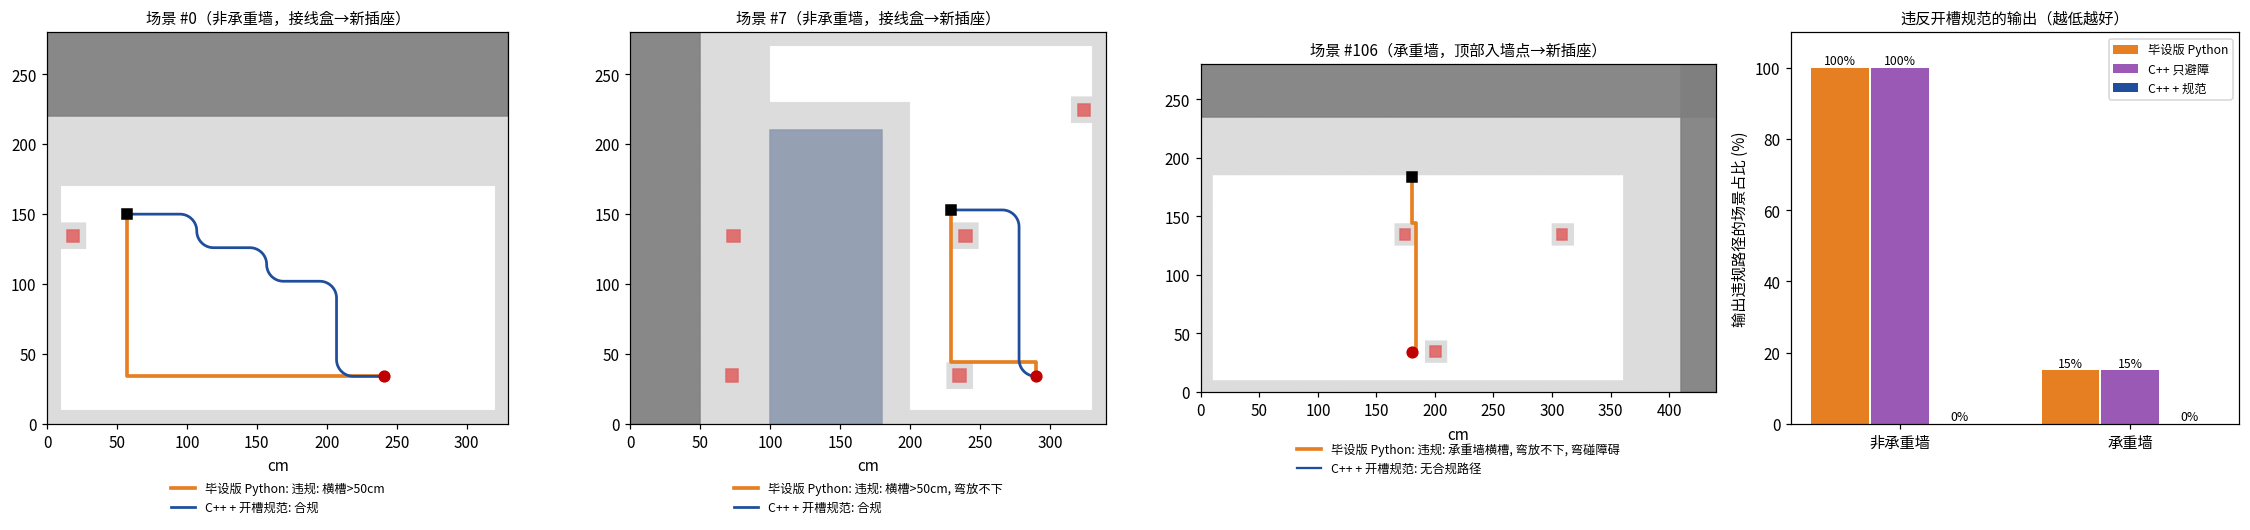
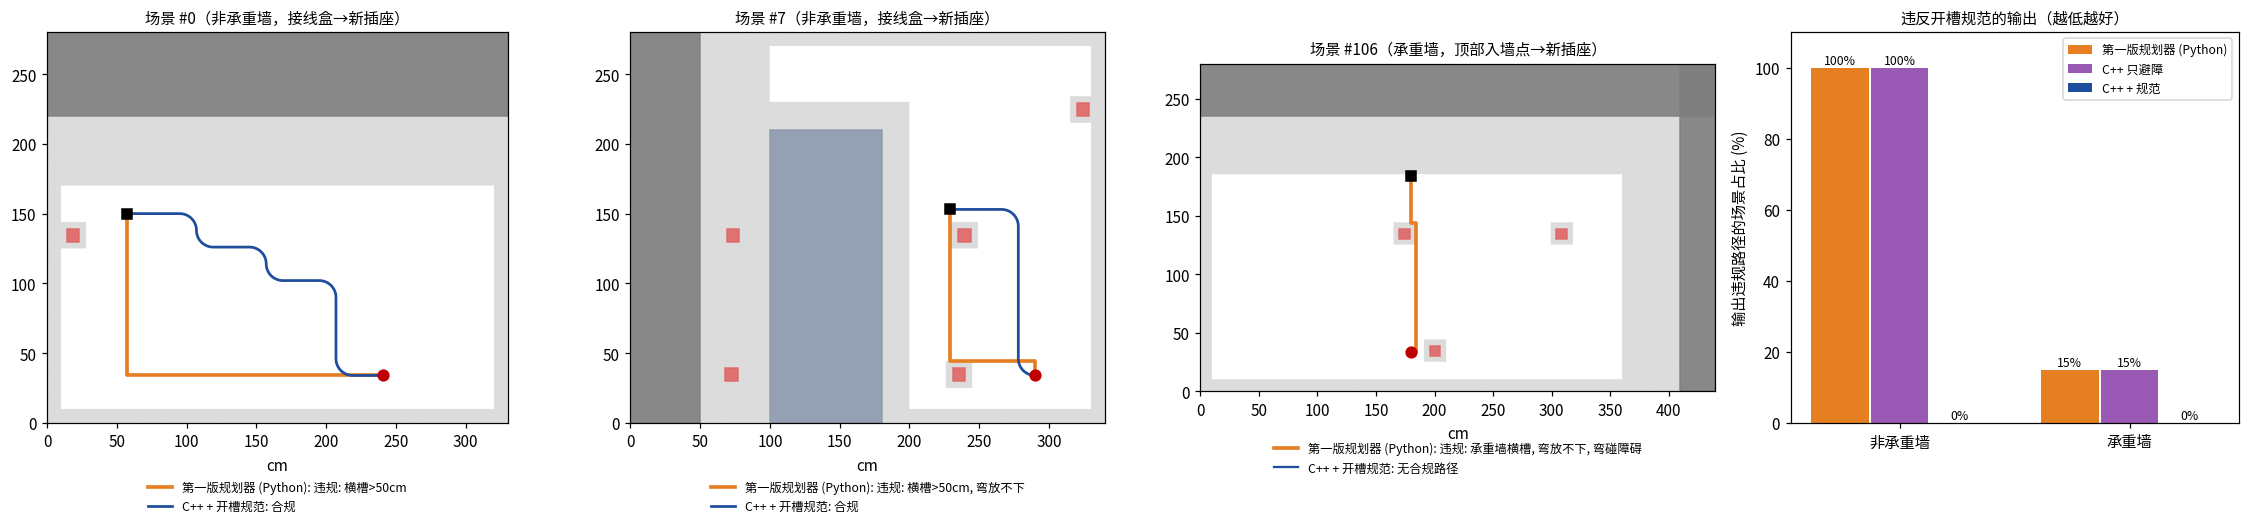
docs: integrate fine-alignment and joint-planning results; neutral planner naming
- README, EVOLUTION (stages 8-9), ROADMAP, USER_GUIDE and package READMEs
  describe the AprilTag + LiDAR EKF alignment and task-level joint planning
- Rename the Python prototype to 'first-version planner' in benchmark labels
  and redraw the planner comparison figure (deterministic results unchanged)
- Fix stale alignment-mode comments and a hard-coded Windows path

diff --git a/src/scr_planner/scripts/wall_benchmark.py b/src/scr_planner/scripts/wall_benchmark.py
@@ -1,6 +1,6 @@
 #!/usr/bin/env python3
 # -*- coding: utf-8 -*-
-"""墙面开槽规划基准：第一版规划器 Python 增强 A* vs C++ 方向感知 A*（无规范 / 有规范）.
+"""墙面开槽规划基准：第一版 Python 增强 A* vs C++ 方向感知 A*（无规范 / 有规范）.
 
 随机生成 N 面墙（非承重 / 承重），每面墙一项开槽任务，三种方法：
 
@@ -215,7 +215,7 @@ def plot(scenes, paths, rows, summary, out):
                   extent=(0, sc.width, 0, sc.height))
         for o in sc.obstacles:
             ax.add_patch(Rectangle((o.x, o.y), o.w, o.h, color=colors['kind'][o.kind], alpha=0.9))
-        for m, col, ls, lw, lab in (('py_enhanced', '#E67E22', '-', 2.4, '第一版规划器 Python'),
+        for m, col, ls, lw, lab in (('py_enhanced', '#E67E22', '-', 2.4, '第一版规划器 (Python)'),
                                     ('cpp_rules', '#1F4E9C', '-', 1.8, 'C++ + 开槽规范')):
             cells = paths[i].get(m) or []
             r = by.get((i, m))
@@ -260,7 +260,7 @@ def plot(scenes, paths, rows, summary, out):
         ax.legend(loc='upper center', bbox_to_anchor=(0.5, -0.12), fontsize=8, frameon=False)
 
     ax = axes[-1]
-    labels = {'py_enhanced': '第一版规划器 Python', 'cpp_plain': 'C++ 只避障', 'cpp_rules': 'C++ + 规范'}
+    labels = {'py_enhanced': '第一版规划器 (Python)', 'cpp_plain': 'C++ 只避障', 'cpp_rules': 'C++ + 规范'}
     x = np.arange(2)
     for k, m in enumerate(METHODS):
         vals = []

diff --git a/src/scr_arm_controller/scr_arm_controller/navigation_cutting_task.py b/src/scr_arm_controller/scr_arm_controller/navigation_cutting_task.py
@@ -180,7 +180,7 @@ class NavigationCuttingTask(Node):
         self.distance_from_marker = 0.6
         self.position_tolerance = 0.01             # 1 cm
         self.angle_tolerance = math.radians(1.0)   # 1°
-        # 对位模式：'visual' = 相机+激光 PBVS；'odom' = 里程计 + 已知方块坐标（基线）
+        # 对位模式：'visual' = AprilTag + 激光 EKF；'visual_v1' = 第一版色块 PBVS；'odom' = 里程计 + 已知标记坐标
         self.positioning_mode = 'visual'
         self.observe_joint1 = -0.15                # 视觉伺服时的滑台高度（避开机械臂自遮挡）
         self.odom_bias = (0.0, 0.0, 0.0)           # 实验用：注入里程计漂移 (dx, dy, dyaw)

diff --git a/src/scr_arm_controller/scr_arm_controller/teach_alignment_offset.py b/src/scr_arm_controller/scr_arm_controller/teach_alignment_offset.py
@@ -7,7 +7,7 @@
 偏置 = 估计均值 − 真值（WallEKF 状态 (d, u, ψ) 的约定）。之后估计器在测量模型内部扣除该偏置，
 相机外参误差、标记安装误差、激光测距偏差等静态误差在参考位姿处被一并消除。
 
-  ros2 run scr_arm_controller teach_alignment_offset --out fine_alignment_taught.yaml [--seconds 8]
+  ros2 run scr_arm_controller teach_alignment_offset --out taught.yaml [--seconds 30]
 
 输出为 ROS 参数文件，执行任务或基准测试时用 --ros-args --params-file 加载，
 或用 alignment_benchmark --calib 指定。需先启动仿真（不需要 Nav2）。

diff --git a/src/path_planning/draw_pid_diagram.py b/src/path_planning/draw_pid_diagram.py
@@ -2,6 +2,7 @@
 # -*- coding: utf-8 -*-
 """生成PID闭环控制系统框图"""
 
+import os
 import matplotlib.pyplot as plt
 import matplotlib.patches as patches
 import matplotlib
@@ -134,7 +135,7 @@ ax.annotate('', xy=(8.5, 5.75), xytext=(9.0, 5.75),
                             linestyle='dashed'))
 
 plt.tight_layout()
-save_path = r'D:\毕设\colcon_ws\colcon_ws\src\path_planning\pid_control_diagram.png'
+save_path = os.path.join(os.path.dirname(os.path.abspath(__file__)), 'pid_control_diagram.png')
 fig.savefig(save_path, dpi=200, bbox_inches='tight', facecolor='white')
 print(f'已保存: {save_path}')
 plt.close()

diff --git a/docs/EVOLUTION.md b/docs/EVOLUTION.md
@@ -18,7 +18,9 @@
 | [5. 墙面开槽规划](#5-墙面开槽规划) | 把施工规范写进规划器 | 140 面随机墙上 0 条违规路线（Python 原型 106 面违规） |
 | [6. 从规划到执行：多站开槽](#6-从规划到执行多站开槽) | 机械臂工作空间小，一条槽分多站完成 | 两条槽 11 站全部完成，刀尖轨迹误差最大 2.7 mm；访问顺序优化节省 11.8 % |
 | [7. 方法对比与可视化](#7-方法对比与可视化) | 检验视觉伺服方案的选择；让结果可见 | 纯 IBVS 在本构型下偏航不可观，保留 PBVS；RViz 开槽场景 |
-| [8. 当前工作](#8-当前工作) | 精对位升级、系统层现代化、任务级联合规划、演示与技术报告 | 进行中 |
+| [8. 精对位第二版：检测、估计与控制分离](#8-精对位第二版检测估计与控制分离) | 去掉停止判据带来的残差，对光照、遮挡与安装误差稳健 | 对位误差 4.2 → 0.53 mm；多站常值横向偏差基本消除；控制律有稳定性分析 |
+| [9. 任务级联合规划](#9-任务级联合规划) | 选线时就考虑停靠站，以执行时间为目标 | 400 面随机墙上从不变慢，非承重墙再省 3.5 %，92 % 的墙证明最优 |
+| [10. 当前工作](#10-当前工作) | 系统层现代化、演示与技术报告 | 进行中 |
 
 ---
 
@@ -314,11 +316,86 @@
 
 ---
 
-## 8. 当前工作
+## 8. 精对位第二版：检测、估计与控制分离
+
+第一版精对位已经做到约 2 mm，但第 6、7 阶段的结果指出了几个结构性问题：
+
+- **停止判据决定了精度**：比例律带 1 cm/s 最小速度和 5 mm / 0.5° 死区，误差一进入 1 cm / 1° 容差就停。离线对比表明残余误差主要来自这一判据，而不是感知。
+- **色块标记脆弱**：没有身份，画面中任何黄色物体都会被当成标记；部分遮挡时质心偏移，下游无法察觉；冷色光照下检测失败。
+- **滤波没有运动模型**：指数平滑在运动中滞后，测量延迟未补偿，测量一丢失控制环就停住。
+- **多站执行继承对位残差**：以“对位停车时的里程计位姿”为墙面原点，每次运行带 0.65–2.3 mm 的常值横向偏差。
+- **静态标定误差直接进入结果**：相机 1° 安装偏角约等于 10 mm 沿墙误差。
+
+### 8.1 设计
+
+参照 Nav2 `opennav_docking` 的结构，把精对位拆成四个相互独立的环节：
+
+1. **检测**：AprilTag tag36h11 定位标记（OpenCV ArUco 模块，亚像素角点，IPPE PnP 只取中心位置并给出各向异性协方差）；色块检测器保留为可选项，用于对比。
+2. **估计**：墙面相对状态 (d, u, ψ) 的 EKF，里程计增量预测，激光墙面拟合与标记位置更新；按时间戳补偿测量延迟，χ² 门限剔除离群测量，标记丢失时外推。
+3. **控制**：平方根整形饱和比例律，远处按恒定减速度制动，近处等效增益 2 /s，带速度与加速度限幅。
+4. **到位判断**：误差在 2 mm / 2 mm / 0.3° 内、底盘静止、估计标准差足够小，连续 10 个周期，然后转入定点保持。
+
+另外加入示教零位标定（在测量模型内扣除法向、沿墙、朝向的静态偏置），多站执行的墙面原点改为 EKF 估计的标记位置。
+
+### 8.2 控制分析
+
+取 V = ½|e|²，V̇ = −|e|·min(f(|e|), v_max) < 0，f 为 [0, k] 扇区内的单调函数，速度饱和不改变符号，因此对积分器对象全局渐近稳定，零点附近指数收敛。考虑 20 Hz 采样、底盘速度环一阶滞后（τ = 50 ms）和一拍指令延迟，离散模型的闭环极点在选定增益下位于单位圆内并留有裕度。分析与参数选择见 [精对位报告](experiments/fine_alignment/README.md#24-控制分析)。
+
+### 8.3 验证中发现的问题
+
+- **相机偏角注入无效**：第一次在 URDF 中给相机加 1° 偏航，结果毫无变化。原因是 Gazebo 合并固定关节时丢弃了传感器自身的位姿，偏角改为设在相机关节上后才生效。
+- **示教时间不足**：8 s 示教得到的零位噪声过大，改为默认 30 s。
+- **评估口径不一致**：第一版的 2.0 mm 是在停车约 1 s 后读取的，包含了这期间底盘的缓慢滑移；本版统一在控制器宣布到位时读取。第一版在新口径下为 4.2 mm，旧数据单独存档。
+- **剩余的 +0.43 mm 沿墙偏差**：估计器本身无偏，偏差与仿真底盘零指令时约 0.6 mm/s 的滑移所预测的稳态误差一致。记录在报告中，没有为此加入积分项。
+
+### 8.4 结果
+
+Gazebo 配对实验（n = 8 / 条件，[对比实验](experiments/alignment_robustness/README.md)）：
+
+| 条件 | 第一版 | 第二版 |
+|---|---|---|
+| 名义 | 4.16 ± 0.94 mm | 0.53 ± 0.21 mm |
+| 冷色工作灯 | 0 / 8（色块丢失） | 0.52 mm |
+| 标记间歇遮挡 | 5.30 mm | 0.63 mm |
+| 标记全程遮挡 | 8.6 mm，偏差无告警 | 0 / 8，不运动并报告失败 |
+| 相机 1° 安装偏角 | 11.1 mm | 10.6 mm；示教零位后 1.04 mm |
+
+5 px / 5 cm 的强噪声下第二版只略好于第一版（3.2 vs 3.8 mm），但误差主要沿视线方向，刀尖所在的瞄准点误差为 0.7 mm。
+
+多站执行复测（同一份 11 站规划，[多站执行报告](experiments/slot_execution/README.md#精对位改进后的复测)）：每次运行的常值横向偏差从 +1.26 / +0.65 mm 降到 +0.24 / −0.18 mm，关闭原点修正的消融中回到 +0.86 mm；到站朝向误差约 0.3° → 0.06°；横移更快，总耗时 249.8 → 233.5 s。
+
+## 9. 任务级联合规划
+
+单条槽线的规划已经在规范约束下最优，停靠站的划分与顺序也已优化，但两步是先后做的：先按“槽长 + 弯数 + 规范偏好”选线，再给选好的线划分停靠站。机械臂沿墙只能覆盖约 12 cm，长度和弯数都相同的两条合规路线，需要的机械臂点数和停靠站数可能不同。所有路线都是直角折线，任意角度规划器在这里没有可比性，值得比较的是任务层面的选择。
+
+### 9.1 方法
+
+- **随机住宅墙生成器**：承重 / 非承重墙、门窗、梁柱，插座 0.30 m、开关 1.30 m、配电箱与弱电箱，强弱电间距，每面墙 1–4 条槽，按种子可复现。
+- **站感知选线**：在 C++ 分段 A\* 中加入按停靠站窗口划分的列代价，让拐点落在窗口边界上；搜索 12 个窗口偏移，并保留原路线作为候选，因此结果不会比现有方法差。一条槽阻挡另一条时尝试其他规划顺序。
+- **下界证书**：对每面墙计算时间下界，联合规划结果等于下界时即证明最优。
+- **经典基线**：Lee 迷宫布线（逐格、最少弯），用来独立核对单槽搜索的最优性。
+
+### 9.2 评估环节的修正
+
+调试中发现评估本身有三处偏差，修正后现有方法单独就快 2.5 %：窗口边缘 0.1 µm 级的碎片段各自多出 4 个机械臂点（约 8 s）；DP 划分忽略了横移时间；恰在可达边界上的切点被单独分成一站。
+
+### 9.3 结果
+
+400 面随机墙，配对比较（[联合规划报告](experiments/task_planning/README.md)）：
+
+- 相对现有的“先选线后 DP”：所有可比的墙上从不变慢；非承重墙平均节省 3.5 %（95 % CI [3.1, 4.0] %，n = 156，Wilcoxon p < 1e-10，最多 9.5 %）；相对逐槽划分基线共节省 11.9 %。
+- 92 % 的墙上联合规划达到下界，即在该时间模型下最优（现有方法 60 %，逐槽基线 9 %）；所有方案 0 条规范违规。
+- 可行性：联合规划在 294 面墙上有解，现有方法 275 面；多出的墙一半只需换规划顺序，一半需要换路线。
+- 消融：收益全部来自把拐点移到窗口边界上；跨槽共享窗口与坐标下降在这批墙上没有额外收益。
+- 时间模型敏感性：t_settle、t_point、v_strafe 各自加倍或减半，变快的墙完全相同，节省 2.3–3.6 %，说明收益来自减少机械臂点数。
+- Lee 布线在关闭整段约束时与分段 A\* 代价 1024 / 1024 相同；打开约束后其路线在 80 % 的非承重墙槽上违规。
+- 代价是规划时间从中位约 25 ms 增加到约 0.4 s（最长 5.5 s）。
+
+示例任务的预测时间 250.0 s → 241.8 s（评估修正）→ 225.5 s（联合规划），尚未在 Gazebo 中执行验证。
+
+## 10. 当前工作
 
 前几个阶段留下的问题决定了下一步的方向（具体条目见 [路线图](ROADMAP.md)）：
 
-- **精对位升级**：多站执行的剩余误差来自对位停止时的残差和相机安装误差；5 cm 色块标记尺寸小、只提供一个质心。计划改用 AprilTag 定位标记，用 EKF 融合激光、视觉与里程计，重新设计对位控制器并给出稳定性分析，加入相机外参标定 / 示教零偏。
-- **任务级联合规划**：多条槽目前按顺序逐条规划，先规划的槽可能让后面的槽无解；在可切高度带内，随机生成的 175 面墙中有 75 面至少有一条槽找不到合规路线而被跳过；台阶形路线需要“改走吊顶 / 地面”一类的多方案决策。计划联合规划槽线与停靠站，并在数百面随机墙上做基准测试。
 - **ROS 2 系统层现代化**：任务编排改用 BehaviorTree.CPP；Nav2 换用 MPPI（全向）与 Smac Planner；`robot_localization` EKF 融合里程计与 IMU；底盘改由 ros2_control 控制；最后视机器资源从 Gazebo Classic 迁移到新版 Gazebo。
 - **Gazebo 演示录制**与**完整技术报告**。

diff --git a/README.md b/README.md
@@ -2,7 +2,7 @@
 
 [![CI](https://github.com/Aemeath-BonVoage/indoor-wall-slot-cutting-robot-path-planning/actions/workflows/ci.yml/badge.svg)](https://github.com/Aemeath-BonVoage/indoor-wall-slot-cutting-robot-path-planning/actions/workflows/ci.yml)
 
-**室内墙面开槽机器人（SCR, Slot Cutting Robot）的 ROS 2 仿真系统**：麦克纳姆轮全向底盘 + 直角坐标式 4 自由度机械臂，覆盖 SLAM 建图、Nav2 导航、相机 + 激光视觉伺服精对位、满足施工规范的开槽路径规划，以及带定点保持的多站切割执行。
+**室内墙面开槽机器人（SCR, Slot Cutting Robot）的 ROS 2 仿真系统**：麦克纳姆轮全向底盘 + 直角坐标式 4 自由度机械臂，覆盖 SLAM 建图、Nav2 导航、AprilTag + 激光 EKF 精对位、满足施工规范的开槽规划与任务级停靠站优化，以及带定点保持的多站切割执行。
 
 <!-- 多站开槽演示 GIF 录制后放在此处 -->
 
@@ -23,10 +23,11 @@
 
 | 方向 | 结果 | 报告 |
 |---|---|---|
-| 精对位 | 相机 + 激光 PBVS 对位误差 2.0 ± 0.6 mm（n = 8）；里程计漂移 10 cm 时仍为 1.9 mm，里程计基线为 84 mm；防碰撞守护开启的 64 次试验零碰墙 | [对位鲁棒性](docs/experiments/alignment_robustness/README.md) |
+| 精对位 | AprilTag + 激光 EKF + 饱和控制律：对位误差 4.2 → 0.53 ± 0.21 mm（n = 8，配对）；冷光、间歇遮挡、里程计漂移下保持 0.5–0.8 mm；示教零位把 1° 相机安装误差的影响从约 10 mm 降到 1.0 mm；给出李雅普诺夫与离散采样稳定性分析 | [设计与分析](docs/experiments/fine_alignment/README.md)、[对比实验](docs/experiments/alignment_robustness/README.md) |
 | 开槽规划 | C++ 方向感知增强 A\* 把施工规范作为硬约束并保持最优；140 面随机墙上 0 条违规路线，第一版规划器在 106 面上违规 | [规划与规范](docs/experiments/cpp_planner/README.md) |
-| 多站执行 | 两条槽 11 个停靠站全部完成，刀尖轨迹误差最大 1.3 mm，切割期间底盘漂移 ≤ 0.32 mm | [多站执行](docs/experiments/slot_execution/README.md) |
-| 停靠站优化 | 动态规划划分 + 最优扫掠顺序，Gazebo 中总耗时 283 s → 250 s（−11.8 %），100 面随机墙平均节省 12.5 % | [多站执行](docs/experiments/slot_execution/README.md) |
+| 多站执行 | 两条槽 11 个停靠站全部完成；精对位升级并以标记估计位置为墙面原点后，每次运行的常值横向偏差 +0.65–1.26 → −0.18–+0.24 mm，刀尖轨迹误差最大 0.9 mm，总耗时 250 → 233 s | [多站执行](docs/experiments/slot_execution/README.md) |
+| 停靠站优化 | 动态规划划分 + 最优扫掠顺序，Gazebo 中总耗时 283 s → 250 s（−11.8 %） | [多站执行](docs/experiments/slot_execution/README.md) |
+| 任务级联合规划 | 槽线走向与停靠站联合优化：400 面随机住宅墙上从不比分步方法慢，非承重墙再省 3.5 %（95 % CI [3.1, 4.0] %，Wilcoxon p < 1e-10），下界证书证明 92 % 的墙已达最优 | [联合规划](docs/experiments/task_planning/README.md) |
 | 仿真保真度 | 定位并修复底盘旋转失真的两层根因，转速比 18–37 % → 0.99–1.01 | [项目演进](docs/EVOLUTION.md#4-仿真保真度底盘漂移与旋转失真) |
 | 方法对比 | 约 1.25 万次离线试验：纯 IBVS 在本构型下偏航几乎不可观（雅可比条件数 314），保留 PBVS | [视觉伺服对比](docs/experiments/ibvs_vs_pbvs/README.md) |
 
@@ -34,14 +35,14 @@
 
 ```mermaid
 flowchart TB
-    task["墙面任务 YAML"] --> planner["plan_wall_slots<br/>C++ 增强 A* + 停靠站优化<br/>(scr_planner)"]
+    task["墙面任务 YAML"] --> planner["plan_wall_slots<br/>C++ 增强 A* + 槽线 / 停靠站联合规划<br/>(scr_planner)"]
     planner --> plan["规划结果 YAML<br/>槽线 / 停靠站 / 机械臂点"]
     plan --> exec
     plan --> viz["plan_viz (scr_viz)<br/>RViz 开槽场景与刀尖轨迹"]
 
     subgraph exec["navigation_cutting_task (scr_arm_controller)"]
         direction LR
-        nav["导航到墙前"] --> servo["精对位<br/>相机 + 激光 PBVS"]
+        nav["导航到墙前"] --> servo["精对位<br/>AprilTag + 激光 EKF"]
         servo --> station["逐站：横移 → 定点保持<br/>→ 残差补偿 → 切割"]
     end
 
@@ -65,7 +66,7 @@ flowchart TB
 
 实线为指令与数据流，虚线为传感器反馈。
 
-单站任务和多站开槽共用同一条执行路径：Nav2 把底盘送到墙前，相机 + 激光视觉伺服把底盘对位到定位标记正前方（此时的位姿作为墙面坐标原点），然后逐站横移、定点保持、按传感器测得的残余误差修正机械臂点并切割。Gazebo 的墙是刚体，仿真中采用空切：刀尖停在墙前固定间隙处，只验证轨迹。
+单站任务和多站开槽共用同一条执行路径：Nav2 把底盘送到墙前，AprilTag 与激光墙面拟合经 EKF 融合，饱和控制律把底盘对位到定位标记正前方（EKF 估计的标记位置作为墙面坐标原点），然后逐站横移、定点保持、按传感器测得的残余误差修正机械臂点并切割。Gazebo 的墙是刚体，仿真中采用空切：刀尖停在墙前固定间隙处，只验证轨迹。
 
 | 包 | 内容 |
 |---|---|
@@ -143,12 +144,14 @@ colcon test && colcon test-result --verbose
 - [使用指南](docs/USER_GUIDE.md)：安装、启动、建图、导航、任务执行、可视化、故障排查
 - [路线图](docs/ROADMAP.md)：进行中与计划中的工作
 - 实验报告：
-  - [对位鲁棒性：视觉伺服 vs 里程计](docs/experiments/alignment_robustness/README.md)
+  - [精对位设计与控制分析：AprilTag + 激光 EKF](docs/experiments/fine_alignment/README.md)
+  - [对位鲁棒性对比](docs/experiments/alignment_robustness/README.md)
   - [墙面开槽规划：C++ 增强 A\* 与施工规范](docs/experiments/cpp_planner/README.md)
   - [多站执行与停靠站顺序优化](docs/experiments/slot_execution/README.md)
+  - [任务级联合规划：槽线走向 + 停靠站](docs/experiments/task_planning/README.md)
   - [视觉伺服方法对比：PBVS / IBVS / 2.5D 混合](docs/experiments/ibvs_vs_pbvs/README.md)
   - [可视化与演示](docs/experiments/demo/README.md)
 
 ## 关于
 
-本项目起源于本科毕业设计《面向室内墙体线槽开槽任务的机器人自主路径规划设计》，在此基础上持续迭代：补充真值评估与可复现实验，引入视觉伺服精对位，修正仿真保真度问题，并把开槽规划扩展为满足施工规范、可在多个停靠站上执行的完整流程。
+本项目起源于本科毕业设计《面向室内墙体线槽开槽任务的机器人自主路径规划设计》，在此基础上持续迭代：补充真值评估与可复现实验，引入视觉伺服与状态估计的精对位，修正仿真保真度问题，并把开槽规划扩展为满足施工规范、在多个停靠站上联合优化并执行的完整流程。

diff --git a/docs/ROADMAP.md b/docs/ROADMAP.md
@@ -6,18 +6,7 @@
 
 ## 进行中与计划
 
-### 1. 精对位升级：AprilTag + EKF + 控制器重新设计
-
-**动机**：多站执行中剩下的主要误差是每次运行的常值横向偏差（0.65–2.3 mm），等于起点精对位停下时沿墙方向的残差；对位误差主要由 1 cm 停止判据和 5 mm 死区决定；相机偏航每 1° 约产生 10 mm 横向偏差。当前 5 cm 色块标记只提供一个质心，尺寸小、可观性弱。
-
-- [ ] AprilTag 定位标记：检测与位姿估计，替换色块标记
-- [ ] EKF：融合激光墙面拟合、视觉标记位姿与里程计，给出带协方差的底盘位姿估计
-- [ ] 对位控制器重新设计，给出稳定性分析；收敛判据改为“误差在容差内且速度趋零”
-- [ ] 相机外参标定 / 示教零偏；在 URDF 中加入已知的相机安装误差验证
-- [ ] 对位结束时用测得的残差修正墙面参考原点
-- [ ] 在 Gazebo 中与当前 PBVS 对比（随机起点、里程计漂移、传感器噪声），出实验报告
-
-### 2. ROS 2 系统层现代化
+### 1. ROS 2 系统层现代化
 
 **动机**：任务流程目前由 `navigation_cutting_task.py` 中的一个顺序程序实现，单站任务、多站执行、重试与失败处理都写在同一个类里；导航使用 NavFn + DWB，定位只用里程计与 AMCL；底盘绕过 ros2_control 直接由平面运动插件驱动；Gazebo Classic 已于 2025 年 1 月停止维护。
 
@@ -27,21 +16,22 @@
 - [ ] 底盘改由 ros2_control（麦克纳姆轮驱动控制器）控制，与机械臂一致
 - [ ] 仿真器从 Gazebo Classic 迁移到新版 Gazebo（最后一项，视机器资源而定）
 
-### 3. 任务级联合规划：槽线路线与停靠站
+### 2. 任务级规划的后续工作
 
-**动机**：多条槽目前按顺序逐条规划，先规划的槽可能让后面的槽无解；停靠站在槽线确定之后才划分；宽墙上规范约束会迫使台阶形路线。
+联合规划已完成（[报告](experiments/task_planning/README.md)），留下的问题：
 
-- [ ] 联合优化多条槽的路线、停靠站划分与访问顺序，目标为总执行时间
-- [ ] 多方案决策：路线弯数过多时给出改走吊顶 / 地面等替代方案
-- [ ] 随机墙面生成器扩展，数百面墙的批量基准测试；与逐条规划、第一版规划器等基线对比
+- [ ] 在 Gazebo 中执行联合规划生成的示例任务，验证预测的 225.5 s
+- [ ] 按精对位第二版的执行路径重新标定时间模型（每站移动与稳定约 4.5 s → 2.8 s）
+- [ ] 106 面墙（63 面为 4 条槽）没有任何方法给出可行方案：多方案决策，路线弯数过多或无解时给出改走吊顶 / 地面等替代方案
 - [ ] 停靠站位姿与占用地图的碰撞检查
+- [ ] 小规模实例用整数规划求精确最优解，核对下界证书未能证明最优的墙面
 
-### 4. Gazebo 演示录制
+### 3. Gazebo 演示录制
 
 - [ ] 在 Gazebo 中验证墙面实体的运行时生成、演示相机出图和运行中的刀尖轨迹
 - [ ] 录制完整多站开槽演示（GIF / MP4），放入 README
 
-### 5. 技术报告
+### 4. 技术报告
 
 - [ ] 汇总系统设计、方法与实验结果，形成一份完整的技术报告
 
@@ -60,6 +50,8 @@
 | 底盘旋转失真修复（仿真配置 v2）、定点保持、空切 | [演进 4](EVOLUTION.md#4-仿真保真度底盘漂移与旋转失真) |
 | C++ 方向感知增强 A\* 与施工规范约束 | [演进 5](EVOLUTION.md#5-墙面开槽规划)、[报告](experiments/cpp_planner/README.md) |
 | 离线开槽规划、多站执行、停靠站顺序优化、执行路径统一 | [演进 6](EVOLUTION.md#6-从规划到执行多站开槽)、[报告](experiments/slot_execution/README.md) |
+| 精对位第二版：AprilTag + 激光 EKF + 饱和控制律、示教零位、多站原点修正 | [演进 8](EVOLUTION.md#8-精对位第二版检测估计与控制分离)、[设计](experiments/fine_alignment/README.md)、[对比](experiments/alignment_robustness/README.md) |
+| 任务级联合规划：随机住宅墙生成器、站感知选线、下界证书、Lee 布线基线 | [演进 9](EVOLUTION.md#9-任务级联合规划)、[报告](experiments/task_planning/README.md) |
 | PBVS / IBVS / 2.5D 混合伺服离线对比 | [演进 7](EVOLUTION.md#7-方法对比与可视化)、[报告](experiments/ibvs_vs_pbvs/README.md) |
 | RViz 开槽可视化、墙面实体、演示录制工具 | [演进 7](EVOLUTION.md#7-方法对比与可视化)、[说明](experiments/demo/README.md) |
 

diff --git a/src/scr_arm_controller/README.md b/src/scr_arm_controller/README.md
@@ -1,6 +1,6 @@
 # scr_arm_controller
 
-机械臂运动学与控制、墙面精对位（相机 + 激光视觉伺服）、底盘定点保持，以及项目的任务总流程 `navigation_cutting_task`（单站任务和多站开槽共用的执行路径）。
+机械臂运动学与控制、墙面精对位（AprilTag + 激光 EKF + 饱和控制律）、底盘定点保持，以及项目的任务总流程 `navigation_cutting_task`（单站任务和多站开槽共用的执行路径）。
 
 ## 模块
 
@@ -8,7 +8,12 @@
 |---|---|---|
 | `cartesian_cutting.py` | `CartesianCuttingController`：闭式正 / 逆运动学、可达性检查、笛卡尔 / 关节空间运动 | 是 |
 | `navigation_cutting_task.py` | 任务总流程：导航 → 精对位 → 扫描 → 定点保持下切割；读取多站开槽规划文件逐站执行；激光防碰撞守护；空切 | 是 |
-| `visual_servo.py` | 纯算法：HSV 定位标记检测、激光墙面拟合（总体最小二乘 + 离群点剔除）、像素反投影、射线与墙面求交、PBVS 误差与全向底盘速度指令 | 否 |
+| `fiducial.py` | 纯算法：AprilTag（tag36h11）检测，边缘直线求交的亚像素角点，IPPE PnP 求标记中心与协方差 | 否 |
+| `wall_ekf.py` | 纯算法：墙面相对状态 (d, u, ψ) 的 EKF，里程计增量预测，激光与标记更新，χ² 门限 | 否 |
+| `wall_estimator_ros.py` | EKF 的 ROS 封装：按时间戳经里程计历史补偿测量延迟，标记丢失时外推 | 是 |
+| `docking_control.py` | 纯算法：平方根整形饱和比例律、速度 / 加速度限幅、收敛判据（误差 + 静止 + 估计不确定度） | 否 |
+| `teach_alignment_offset.py` | 示教零位标定：在真值参考位姿处求估计器的静态偏置，输出 ROS 参数文件 | 是 |
+| `visual_servo.py` | 纯算法（第一版精对位，保留为基线）：HSV 定位标记检测、激光墙面拟合（总体最小二乘 + 离群点剔除）、像素反投影、射线与墙面求交、PBVS 误差与全向底盘速度指令 | 否 |
 | `visual_servo_ros.py` | `WallMarkerServo`：订阅激光、图像、相机内参，查询 TF，输出滤波后的墙面与标记测量；包含主点修正 | 是 |
 | `base_hold.py` | `BaseHold`：独立节点与线程，50 Hz 里程计 P 控制保持底盘位姿，并用真值记录保持期间的最大漂移 | 是 |
 | `ibvs.py` | IBVS 与 2.5D 混合视觉伺服（交互矩阵、`IbvsController`、`HybridController`），用于方法对比 | 否 |
@@ -27,6 +32,19 @@
 | `joint4` | −90° ~ 90° | 刀片方向 |
 
 所有关节为 0 时末端位于 (x0, y0, z0) = (0.537, 0.000, 0.507) m（`base_link` 坐标）。笛卡尔工作空间（TF 实测）：X 0.517–0.582 m，Y −0.060–0.080 m，Z 0.157–0.707 m。伸缩轴完全缩回（`joint3 = +0.02`）时刀尖离底盘中心 0.676 m，完全伸出时 0.741 m。
+
+## 精对位
+
+对位模式由任务 YAML 的 `precise_positioning.mode` 选择：`visual`（第二版，默认）、`visual_v1`（第一版色块 + PBVS，作对比基线）、`odom`（里程计 + 已知标记坐标）。第二版参数在 [`config/fine_alignment.yaml`](config/fine_alignment.yaml)（节点参数 `alignment.*`）：检测器 `apriltag | blob`、标记尺寸与 ID、收敛容差、控制增益与限幅、示教零位偏置。
+
+```bash
+# 示教零位（需先启动仿真，不需要 Nav2）；输出的参数文件在执行任务时加载
+ros2 run scr_arm_controller teach_alignment_offset --out fine_alignment_taught.yaml --seconds 30
+ros2 run scr_arm_controller navigation_cutting_task task_at_target.yaml \
+    --ros-args --params-file fine_alignment_taught.yaml
+```
+
+设计、控制律稳定性分析与实验见 [精对位报告](../../docs/experiments/fine_alignment/README.md) 与 [对位鲁棒性对比](../../docs/experiments/alignment_robustness/README.md)。
 
 ## 接口
 

diff --git a/src/scr_planner/README.md b/src/scr_planner/README.md
@@ -1,6 +1,6 @@
 # scr_planner
 
-墙面开槽（暗敷电线管）路径规划：C++ 方向感知、按整段直线搜索的增强 A\*，施工规范作为硬约束；以及多条槽的停靠站划分、访问顺序优化和多站执行的实验记录。底盘导航不使用本规划器，由 Nav2 完成。
+墙面开槽（暗敷电线管）路径规划：C++ 方向感知、按整段直线搜索的增强 A\*，施工规范作为硬约束；以及多条槽的停靠站划分、访问顺序优化、槽线与停靠站的任务级联合规划，和多站执行的实验记录。底盘导航不使用本规划器，由 Nav2 完成。
 
 ## 功能
 
@@ -11,6 +11,8 @@
 - **接口**：C 接口 `include/scr_planner/c_api.h`，Python ctypes 封装 `python/scr_planner_py.py`。
 - **`python/wall_rules.py`**：开槽规范常量（逐条标注来源：国标 / 参照 / 行业 / 假设）、规则 → 栅格与搜索参数、独立的合规检查、随机墙面场景生成。
 - **`python/slot_plan.py`**：开槽任务规划。槽线限制在机械臂可切高度带内；按机械臂每站 12 cm 的可切宽度划分停靠站（每条槽单独贪心 / 合并贪心 / 合并动态规划）；访问顺序（逐条槽 / 一维最优扫掠）；每站的机械臂切割点（每刀只动一个轴，刀片 0° / 90°）；标定后的时间模型。
+- **`python/task_plan.py`**：任务级联合规划。在分段 A\* 中加入按停靠站窗口划分的列代价，使拐点落在窗口边界上，搜索多个窗口偏移并保留规范代价最优的路线作候选，以预测执行时间为目标选择；多条槽互相阻挡时尝试其他规划顺序；时间下界证书；Lee 迷宫布线基线与独立的规范检查。
+- **`python/wall_gen.py`**：随机住宅墙面生成器（承重 / 非承重、门窗、梁柱、常见点位高度、强弱电间距、1–4 条槽），由整数种子完全确定。
 
 ## 搜索参数（`SearchParams`，Python 关键字参数同名）
 
@@ -31,7 +33,8 @@
 ```bash
 # 离线规划（不需要 ROS）：槽线、停靠站（按执行顺序）、每站机械臂点、预测时间
 python3 src/scr_planner/scripts/plan_wall_slots.py src/scr_planner/config/wall_task_room3_south.yaml /tmp/plan.yaml \
-    [--partition=dp|greedy|per_slot] [--order=sweep|slot_by_slot]
+    [--routes=rule|joint] [--partition=dp|greedy|per_slot] [--order=sweep|slot_by_slot]
+# --routes=joint：槽线与停靠站联合规划（每面墙规划耗时中位约 0.4 s，最长约 5.5 s），输出格式不变
 
 # 执行（scr_arm_controller 的任务总流程，只读规划文件）；--dry-run-gap 为空切
 ros2 run scr_arm_controller navigation_cutting_task /tmp/plan.yaml --dry-run-gap=0.01
@@ -47,7 +50,7 @@ ros2 run scr_planner wall_slot_planner_node.py --ros-args \
 
 墙面任务文件的格式见 `config/wall_task_room3_south.yaml` 和 [使用指南](../../docs/USER_GUIDE.md#7-多站开槽离线规划--逐站执行)。线盒高度须在机械臂可切范围内（离地约 0.27–0.80 m）。
 
-其他脚本：`wall_benchmark.py`（规划器与施工规范的随机墙面对比）、`station_order_benchmark.py`（停靠站划分与顺序的离线对比）、`calibrate_time_model.py`（由执行记录标定时间模型）、`plot_execution.py` / `plot_station_order.py`（作图）。
+其他脚本：`wall_benchmark.py`（规划器与施工规范的随机墙面对比）、`station_order_benchmark.py`（停靠站划分与顺序的离线对比）、`calibrate_time_model.py`（由执行记录标定时间模型）、`task_planning_benchmark.py` / `task_planning_report.py`（联合规划的批量基准与统计，见 [报告](../../docs/experiments/task_planning/README.md)）、`plot_execution.py` / `plot_station_order.py`（作图）。
 
 ## 测试
 

diff --git a/src/scr_description/README.md b/src/scr_description/README.md
@@ -44,9 +44,14 @@ ros2 run scr_description test_mecanum.py                          # 依次测试
 ros2 run scr_description arm_demo.py                              # 机械臂关节轨迹演示
 ```
 
-`gazebo.launch.py` 的参数：`world`、`gui`（默认 `true`）、`rtf`（默认 `1.0`）。
+`gazebo.launch.py` 的参数：`world`、`gui`（默认 `true`）、`rtf`（默认 `1.0`）、`camera_yaw_error_deg`（默认 `0`，在相机关节上加入已知的安装偏角，用于验证示教零位标定；TF 不变）。
 
-`worlds/room.world` 是多房间室内场景，room3 南墙（内表面 y = −3.925 m）上贴有 5 cm 黄色定位标记，中心 (8.42, −3.9245) m。
+`worlds/room.world` 是多房间室内场景。room3 南墙（内表面 y = −3.925 m）上有两个定位标记，沿墙位置相同（x = 8.42 m）：
+
+- **AprilTag 标记**（tag36h11，ID 0，黑框边长 0.10 m，中心离地 0.70 m），模型 `models/scr_apriltag_tag36h11_0`，由 `scripts/generate_apriltag_model.py` 生成；
+- **黄色色块标记**（5 cm，中心离地 0.60 m），第一版精对位使用，保留作对比。
+
+墙前有一盏默认关闭的点光源 `work_light`，对位鲁棒性实验通过 `/gazebo/set_light_properties` 打开它模拟强光 / 冷光照射。
 
 ## 测试
 
